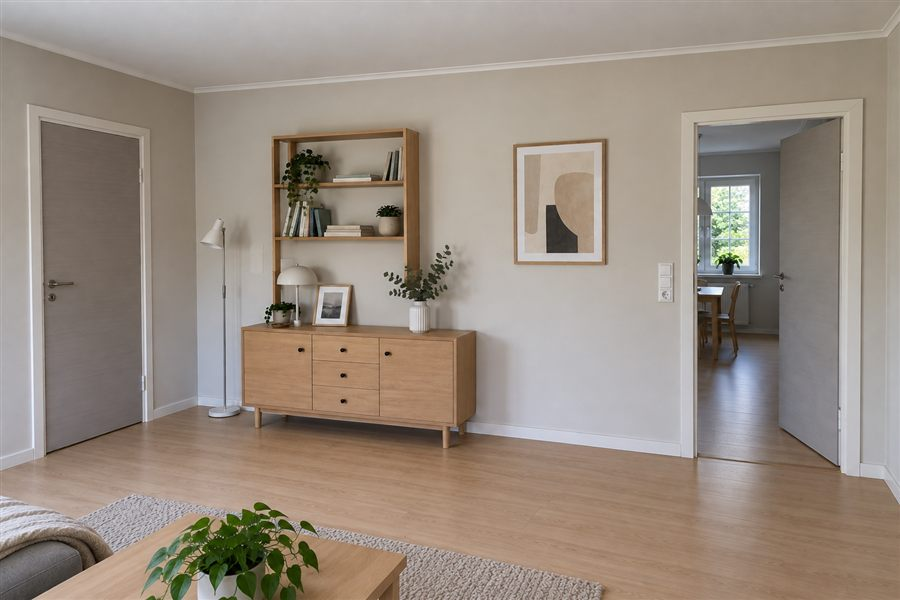
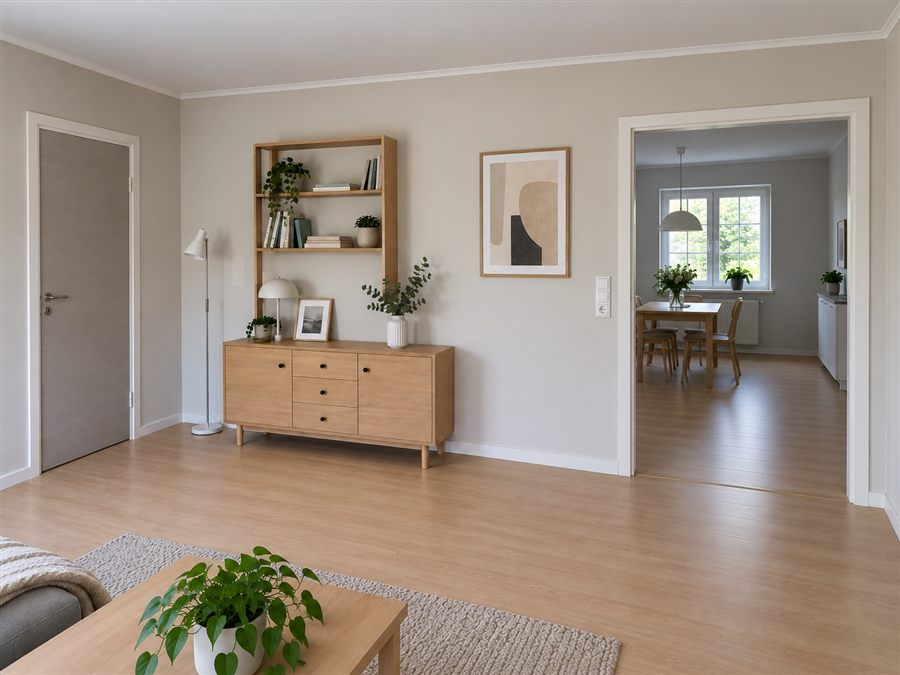
Landingpage: Durchgang-Foto zeigt jetzt einen echten offenen Durchgang (Raumfotos 2b)

diff --git a/marketing/index.html b/marketing/index.html
@@ -578,7 +578,7 @@
         <div class="bubble"><span class="mic">🎙</span>„Angebot für Herrn Schmidt, Ahornweg 12. Wohnzimmer, Höhe 2,50, 4,20 mal 3,80, Wände und Decke streichen. Vorher die alte Tapete runter und ein paar Risse ausbessern, Möbel und Boden abdecken. Fotos schick ich dazu."</div>
         <div class="fotos">
           <img src="wand-fenster-tuer.jpg" alt="Wandfoto mit Fenster und Tür" loading="lazy">
-          <img src="wand-durchgang.jpg" alt="Wandfoto mit Durchgang" loading="lazy">
+          <img src="wand-durchgang.jpg?v=2" alt="Wandfoto mit Durchgang" loading="lazy">
           <img src="wand-sofa.jpg" alt="Wandfoto ohne Öffnungen" loading="lazy">
         </div>
         <span class="fotos-cap">📷 Optional: ein Foto pro Wand</span>

diff --git a/marketing/chat-animation.html b/marketing/chat-animation.html
@@ -85,7 +85,7 @@
         <div class="msg in" data-s>✅ Wand 1: Fenster und Tür erkannt, beide unter 2,5 m², werden übermessen.</div>
 
         <div class="photo out" data-s>
-          <img src="wand-durchgang.jpg" alt="Wandfoto mit Durchgang">
+          <img src="wand-durchgang.jpg?v=2" alt="Wandfoto mit Durchgang">
           <div class="cap">📷 Wand 2</div>
         </div>
 
